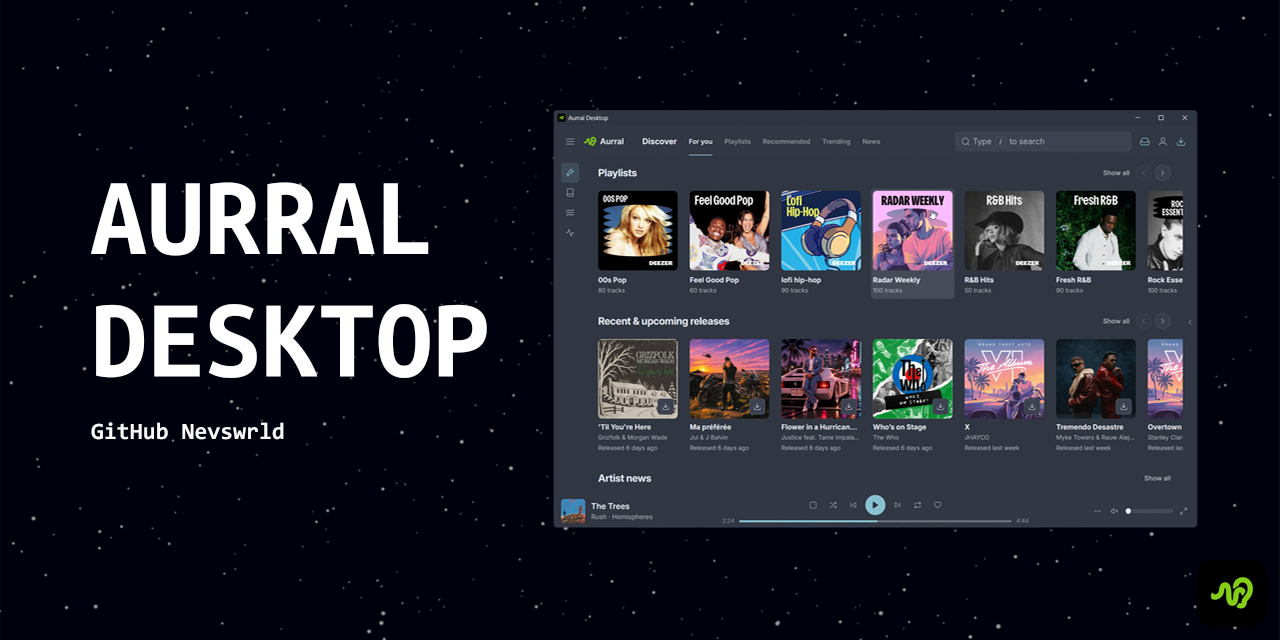
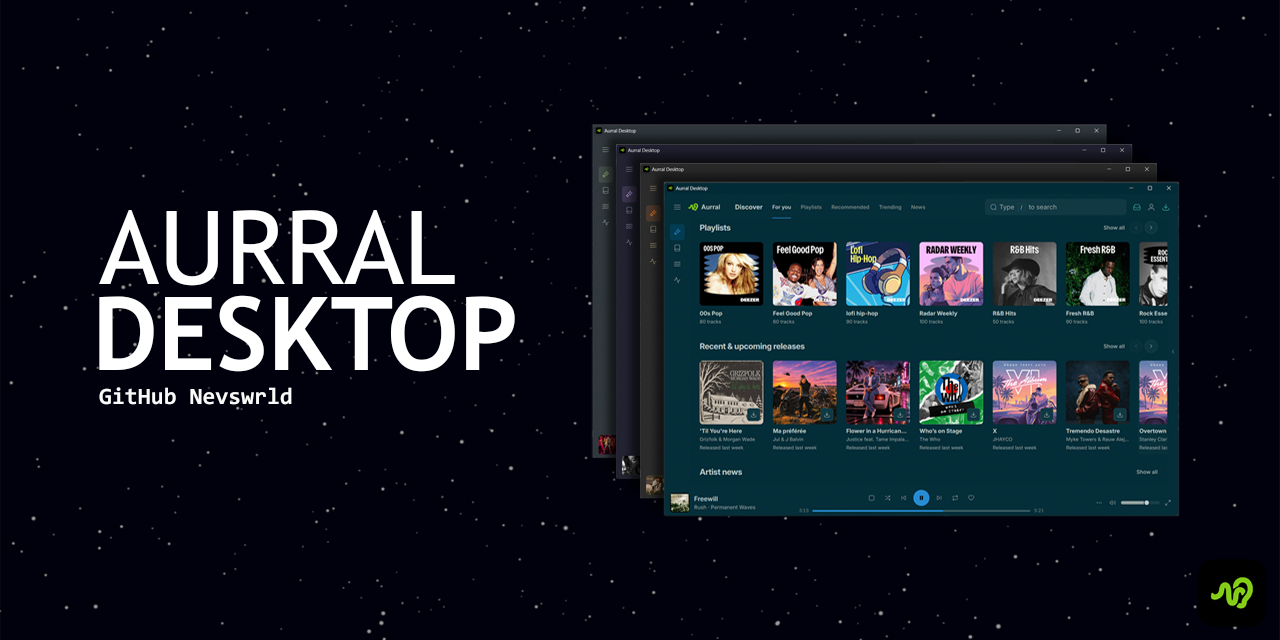
Update README screenshots for desktop and Discord Rich Presence

diff --git a/README.md b/README.md
@@ -77,6 +77,8 @@ Open **Settings** from the system tray icon menu.
 
 Discord Rich Presence is enabled by default and preconfigured with the Aurral Desktop Discord Application ID. It shows the current track, artist, album, playback timing, and album artwork in Discord.
 
+![Discord Rich Presence example](assets/discord-activity.png)
+
 If your Aurral server provides a public artwork URL, that artwork is used. If the artwork URL is local/private, Aurral Desktop falls back to looking up public cover art online so Discord can display it.
 
 You can override the Discord Application ID via `discord_app_id` in config or the `AURRAL_DISCORD_APP_ID` environment variable.
